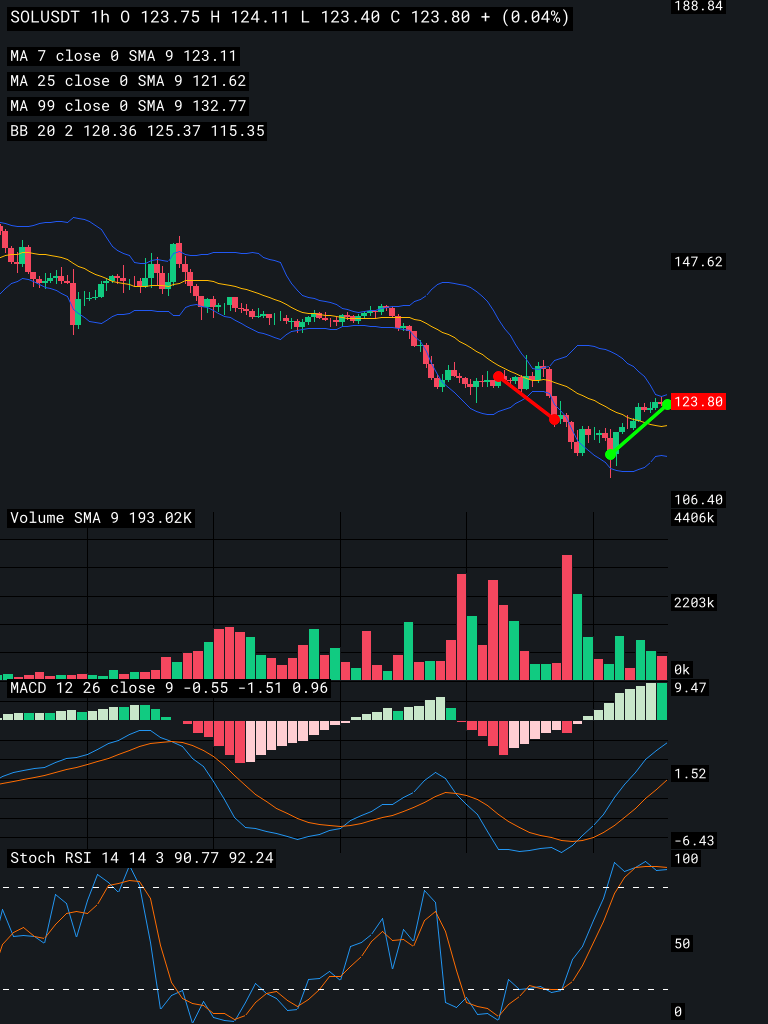
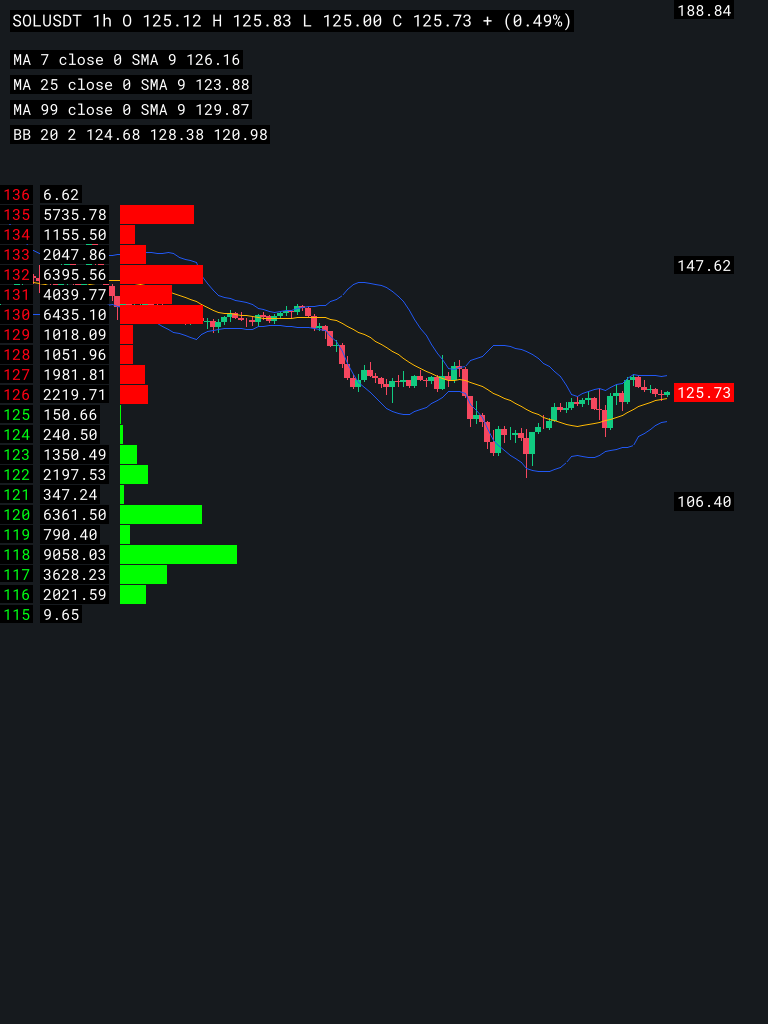
feat: orderbook

diff --git a/feeder/src/charts/painters.rs b/feeder/src/charts/painters.rs
@@ -14,6 +14,7 @@ use m4rs::{bolinger_band, macd, Candlestick as M4rsCandlestick};
 use plotters::coord::types::RangedCoordf32;
 use plotters::prelude::*;
 use plotters::style::full_palette::{GREEN_100, RED_100};
+use std::cmp::Ordering;
 use std::collections::HashMap;
 use std::error::Error;
 
@@ -37,14 +38,20 @@ const SRSI_K: RGBColor = RGBColor(34, 150, 243);
 const SRSI_D: RGBColor = RGBColor(255, 109, 1);
 
 // Axis
-const AXIS_SCALE: PxScale = PxScale { x: 18.0, y: 18.0 };
+const AXIS_SCALE: PxScale = PxScale { x: 20.0, y: 20.0 };
 
 // Label
 const HEAD_SCALE: PxScale = PxScale { x: 22.0, y: 22.0 };
 const LABEL_COLOR: Rgb<u8> = Rgb([255, 255, 255]);
 const LABEL_SCALE: PxScale = PxScale { x: 20.0, y: 20.0 };
-const TRANSPARENT_BLACK_50: Rgb<u8> = Rgb([0, 0, 0]); // 50% transparent black
+
+// TODO: TRANSPARENT
+const TRANSPARENT_BLACK_50: Rgb<u8> = Rgb([0, 0, 0]);
 const TRANSPARENT_RED: Rgb<u8> = Rgb([255, 0, 0]);
+
+// Order
+const BID_COLOR: RGBColor = RGBColor(0, 255, 0);
+const ASK_COLOR: RGBColor = RGBColor(255, 0, 0);
 
 pub fn draw_chart(
     root: &mut DrawingArea<BitMapBackend<'_>, plotters::coord::Shift>,
@@ -250,7 +257,7 @@ pub fn draw_axis_labels(
     margin_right: u32,
     min_price: f32,
     max_price: f32,
-) -> Result<(), Box<dyn Error>> {
+) -> Result<(i32), Box<dyn Error>> {
     let white = Rgb([255u8, 255u8, 255u8]);
     let label_scale = AXIS_SCALE;
     let font_metrics = font.as_scaled(label_scale);
@@ -291,6 +298,7 @@ pub fn draw_axis_labels(
     }
 
     // Add current price label with refined y-position mapping
+    let mut current_price_y = 0;
     if let Some(last_candle) = past_data.last() {
         let current_price = last_candle.close_price.parse::<f32>().unwrap();
         let adjusted_min_price = min_price * 0.95;
@@ -306,6 +314,8 @@ pub fn draw_axis_labels(
         let y_position_clamped = y_position
             .max(0)
             .min((top_section_height - text_height as f32) as i32);
+
+        current_price_y = y_position_clamped;
 
         draw_label(
             img,
@@ -416,7 +426,7 @@ pub fn draw_axis_labels(
         }
     }
 
-    Ok(())
+    Ok(current_price_y)
 }
 
 pub fn draw_lines(
@@ -511,11 +521,11 @@ pub fn draw_label<F: Font>(
 ) -> anyhow::Result<()> {
     let font_metrics = font.as_scaled(scale);
     let (text_width, text_height) = text_size(scale, font, text);
-    let padding = 3;
+    let padding = 2f32 * scale.x / text_height as f32;
 
     draw_filled_rect_mut(
         img,
-        Rect::at(x - padding, y - padding).of_size(
+        Rect::at(x, y).of_size(
             text_width + 2 * padding as u32,
             text_height + 2 * padding as u32,
         ),
@@ -525,8 +535,8 @@ pub fn draw_label<F: Font>(
     draw_text_mut(
         img,
         color,
-        x,
-        y + (font_metrics.descent() as i32) - padding / 2,
+        (x as f32 + padding) as i32,
+        (y as f32 + padding + font_metrics.descent() / text_height as f32 * scale.y * 0.6) as i32,
         scale,
         font,
         text,
@@ -996,10 +1006,14 @@ pub fn draw_point_on_candle(
 }
 
 pub fn draw_order_book(
-    root: &DrawingArea<BitMapBackend<'_>, plotters::coord::Shift>,
+    img: &mut ImageBuffer<Rgb<u8>, Vec<u8>>,
+    font: &impl Font,
     orderbook_data: &OrderBook,
     min_price: f32,
     max_price: f32,
+    width: u32,
+    height: u32,
+    current_price_y: i32,
 ) -> Result<(), Box<dyn Error>> {
     // Group the order book data f32 type.
     let (grouped_bids, grouped_asks): (HashMap<u32, f64>, HashMap<u32, f64>) =
@@ -1009,54 +1023,148 @@ pub fn draw_order_book(
     let (bid_volumes, ask_volumes) =
         convert_grouped_data(&grouped_bids, &grouped_asks, min_price, max_price);
 
-    // Determine the maximum volume for scaling the horizontal axis
-    let max_volume = bid_volumes
-        .values()
-        .chain(ask_volumes.values())
-        .copied()
-        .filter(|v| v.is_finite())
-        .fold(0.0, f32::max);
-
-    // Create the chart context
-    let mut chart =
-        ChartBuilder::on(root).build_cartesian_2d(0f32..max_volume * 1.1, min_price..max_price)?;
-
-    chart.configure_mesh().draw()?;
-
     // Prepare bid data for the histogram
-    let bid_data: Vec<(f32, f32)> = bid_volumes
+    let mut bid_data: Vec<(f32, f32)> = bid_volumes
         .iter()
         .map(|(price_bits, volume)| (f32::from_bits(*price_bits), *volume))
         .collect();
 
     // Prepare ask data for the histogram
-    let ask_data: Vec<(f32, f32)> = ask_volumes
+    let mut ask_data: Vec<(f32, f32)> = ask_volumes
         .iter()
         .map(|(price_bits, volume)| (f32::from_bits(*price_bits), *volume))
         .collect();
 
-    println!("bid_data:{:?}", bid_data);
-    println!("ask_data:{:?}", ask_data);
+    // Sort ask_data by first element (price) in descending order
+    ask_data.sort_by(|a, b| b.0.partial_cmp(&a.0).unwrap_or(Ordering::Equal));
 
-    // Draw the bid histograms
-    for (price, volume) in bid_data.iter() {
-        if price.is_finite() && volume.is_finite() {
-            let style = ShapeStyle::from(&GREEN).filled();
-            chart.draw_series(std::iter::once(Rectangle::new(
-                [(0.0, *price), (*volume, *price + 0.1)],
-                style,
-            )))?;
+    // Sort bid_data by first element (price) in descending order
+    bid_data.sort_by(|a, b| b.0.partial_cmp(&a.0).unwrap_or(Ordering::Equal));
+
+    // Prepare position for the histogram
+    let mut current_y = 0u32;
+    let rect_height = 19u32;
+    let offset_y =
+        current_price_y - rect_height as i32 * bid_data.len() as i32 + ask_data.len() as i32;
+    let factor = 10f32;
+    let gap: i32 = 1;
+    let max_width = width;
+    let current_x = 40u32;
+
+    // let max_bid_volume = bid_data
+    //     .iter()
+    //     .map(|(_, volume)| *volume)
+    //     .fold(0.0, f32::max);
+    // let max_rect_width = (factor * max_bid_volume / max_width as f32) as i32;
+    // let offset_x = width - max_rect_width as u32;
+    let offset_x = current_x + 80u32;
+
+    {
+        let root = BitMapBackend::with_buffer(img, (width, height)).into_drawing_area();
+
+        // Draw the ask histograms
+        for (price, volume) in ask_data.iter() {
+            if price.is_finite() && volume.is_finite() {
+                let rect_width = (factor * *volume / width as f32) as i32;
+
+                root.draw(&Rectangle::new(
+                    [
+                        (offset_x as i32, offset_y + current_y as i32),
+                        (
+                            offset_x as i32 + rect_width,
+                            offset_y + (current_y as i32) + rect_height as i32,
+                        ),
+                    ],
+                    ShapeStyle::from(&ASK_COLOR).filled(),
+                ))?;
+
+                current_y += rect_height + gap as u32;
+            }
+        }
+
+        // Draw the bid histograms
+        for (price, volume) in bid_data.iter() {
+            if price.is_finite() && volume.is_finite() {
+                let rect_width = (factor * *volume / max_width as f32) as i32;
+
+                root.draw(&Rectangle::new(
+                    [
+                        (offset_x as i32, offset_y + current_y as i32),
+                        (
+                            offset_x as i32 + rect_width,
+                            offset_y + (current_y as i32) + rect_height as i32,
+                        ),
+                    ],
+                    ShapeStyle::from(&BID_COLOR).filled(),
+                ))?;
+
+                current_y += rect_height + gap as u32;
+            }
         }
     }
 
-    // Draw the ask histograms
+    // Reset
+    let mut current_y = 0u32;
+    let offset_x = 0;
+
+    let NUM_WHITE = Rgb([255, 255, 255]);
+    let NUM_RED = Rgb([255, 0, 20]);
+    let NUM_GREEN = Rgb([0, 255, 20]);
+
+    // Draw label
     for (price, volume) in ask_data.iter() {
         if price.is_finite() && volume.is_finite() {
-            let style = ShapeStyle::from(&RED).filled();
-            chart.draw_series(std::iter::once(Rectangle::new(
-                [(0.0, *price), (*volume, *price + 0.1)],
-                style,
-            )))?;
+            draw_label(
+                img,
+                font,
+                &format!("{:.0}", price),
+                offset_x as i32,
+                offset_y + current_y as i32,
+                LABEL_SCALE,
+                NUM_RED,
+                TRANSPARENT_BLACK_50,
+            )?;
+
+            draw_label(
+                img,
+                font,
+                &format!("{:.2}", volume),
+                (current_x + offset_x) as i32,
+                offset_y + current_y as i32,
+                LABEL_SCALE,
+                NUM_WHITE,
+                TRANSPARENT_BLACK_50,
+            )?;
+
+            current_y += rect_height + gap as u32;
+        }
+    }
+
+    for (price, volume) in bid_data.iter() {
+        if price.is_finite() && volume.is_finite() {
+            draw_label(
+                img,
+                font,
+                &format!("{:.0}", price),
+                offset_x as i32,
+                offset_y + current_y as i32,
+                LABEL_SCALE,
+                NUM_GREEN,
+                TRANSPARENT_BLACK_50,
+            )?;
+
+            draw_label(
+                img,
+                font,
+                &format!("{:.2}", volume),
+                (current_x + offset_x) as i32,
+                offset_y + current_y as i32,
+                LABEL_SCALE,
+                NUM_WHITE,
+                TRANSPARENT_BLACK_50,
+            )?;
+
+            current_y += rect_height + gap as u32;
         }
     }
 

diff --git a/feeder/src/charts/candle.rs b/feeder/src/charts/candle.rs
@@ -304,7 +304,7 @@ impl Chart {
 
         draw_lines(&mut cropped_img, &self, final_width, height)?;
 
-        draw_axis_labels(
+        let current_price_y = draw_axis_labels(
             &mut cropped_img,
             &font.clone(),
             past_data,
@@ -315,6 +315,20 @@ impl Chart {
             min_price,
             max_price,
         )?;
+
+        // Draw order book
+        if let Some(orderbook_data) = &self.orderbook_data {
+            draw_order_book(
+                &mut cropped_img,
+                &font,
+                orderbook_data,
+                min_price,
+                max_price,
+                final_width,
+                height,
+                current_price_y,
+            )?;
+        }
 
         draw_labels(&mut cropped_img, &font, &self, final_width, height)?;
 
